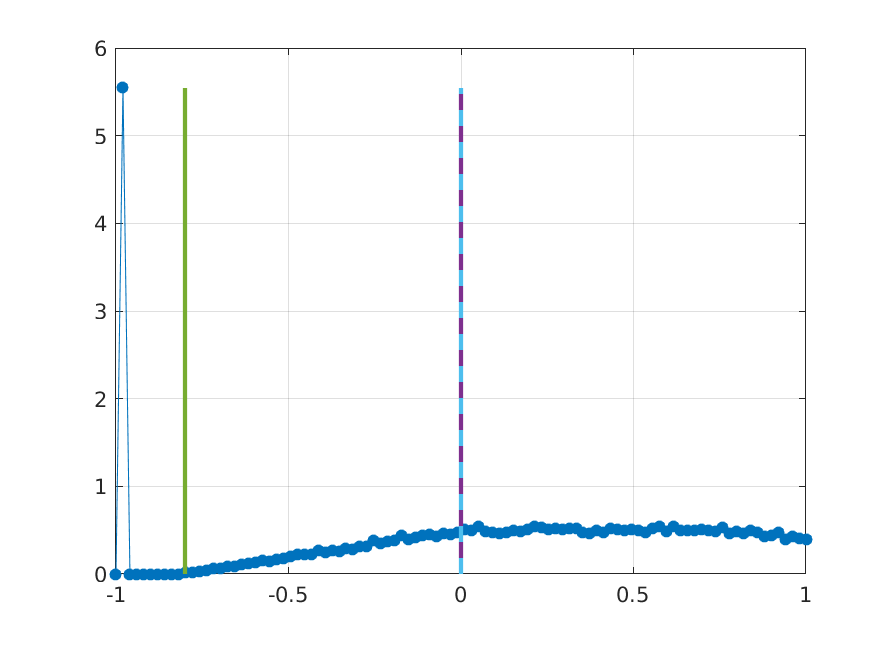
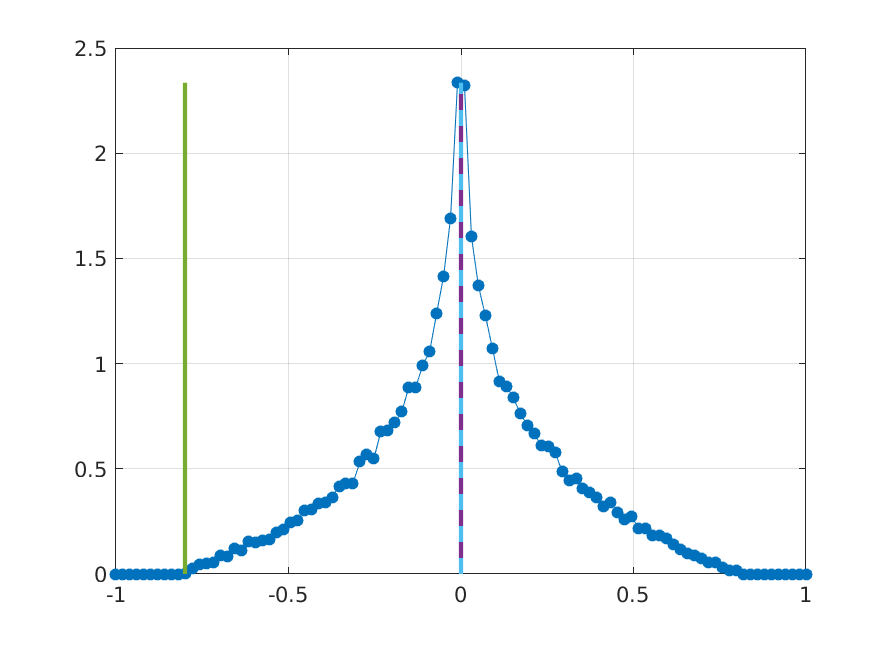
implemented a quick fix

diff --git a/two_resonance_lines/best_line.m b/two_resonance_lines/best_line.m
@@ -5,6 +5,7 @@ function [r] = best_line(xmuestart,xstart,resonance_x,r_init,rmax,b,beta)
         r_collection = zeros(1,length(resonance_x));
         for k = 1:length(resonance_x)
             r_anal = b/(1-(xstart + resonance_x(k))^(1/beta));
+            r_anal = min(r_anal,rmax);
 
             func = @(r) sqrt(1-(pstart/r)^2)*(1-b/r)^beta - (xstart + resonance_x(k));
             r_num = rtbis(func , 1 , rmax , 10^(-7));

diff --git a/two_resonance_lines/multiple_lines.m b/two_resonance_lines/multiple_lines.m
@@ -30,6 +30,8 @@ function [freq, flux,total_number_scatterings,photon_path] = multiple_lines(npho
             end
             photon_path(2,phot) = xmuestart;
             
+            xstart = abs(xstart);
+
             last_scatter = 0;
             [xnew,r_new,nin,last_scatter,xmueou,nsc,photon_path] = ...
                 make_scattering(xstart,xmuestart,beta,alpha,b,rmax,xk0,nin,...

diff --git a/two_resonance_lines/scatter.m b/two_resonance_lines/scatter.m
@@ -26,7 +26,4 @@ function [xnew,xmueou] = scatter(xstart,xmuestart,r,b,xk0,beta,alpha,all_radial,
             last_scatter = 1;
         end
         xnew = xstart + v*(xmueou-xmuein);
-        if case_number == 2
-            xnew = xstart - v*(xmueou-xmuein);
-        end
 end
